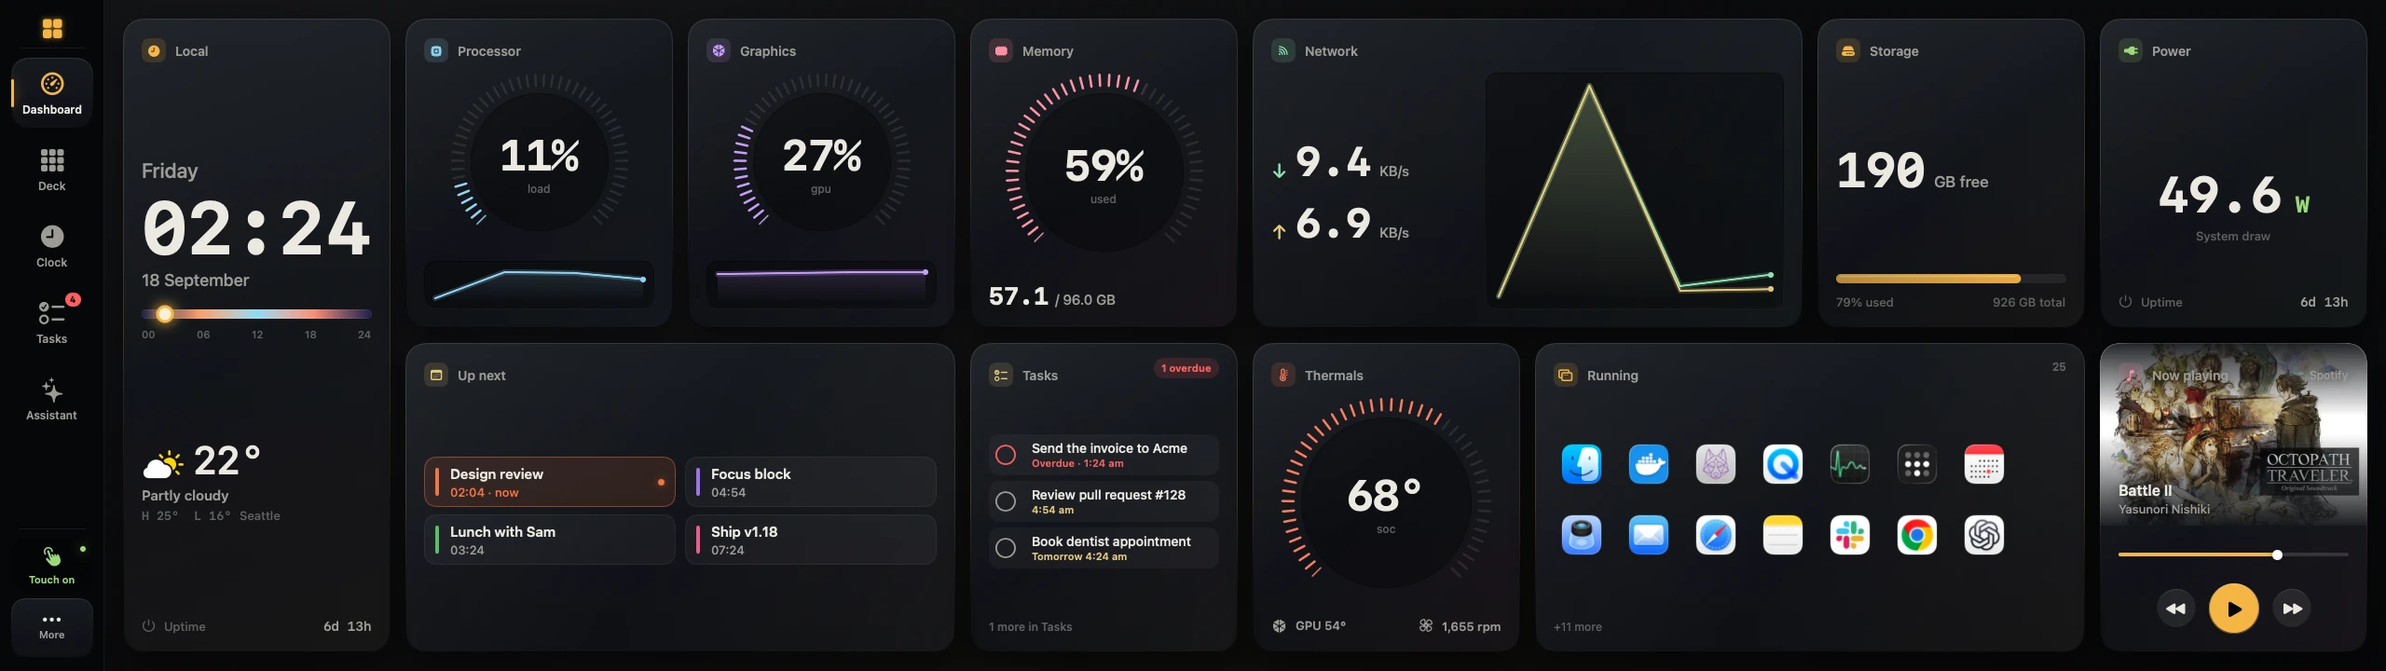
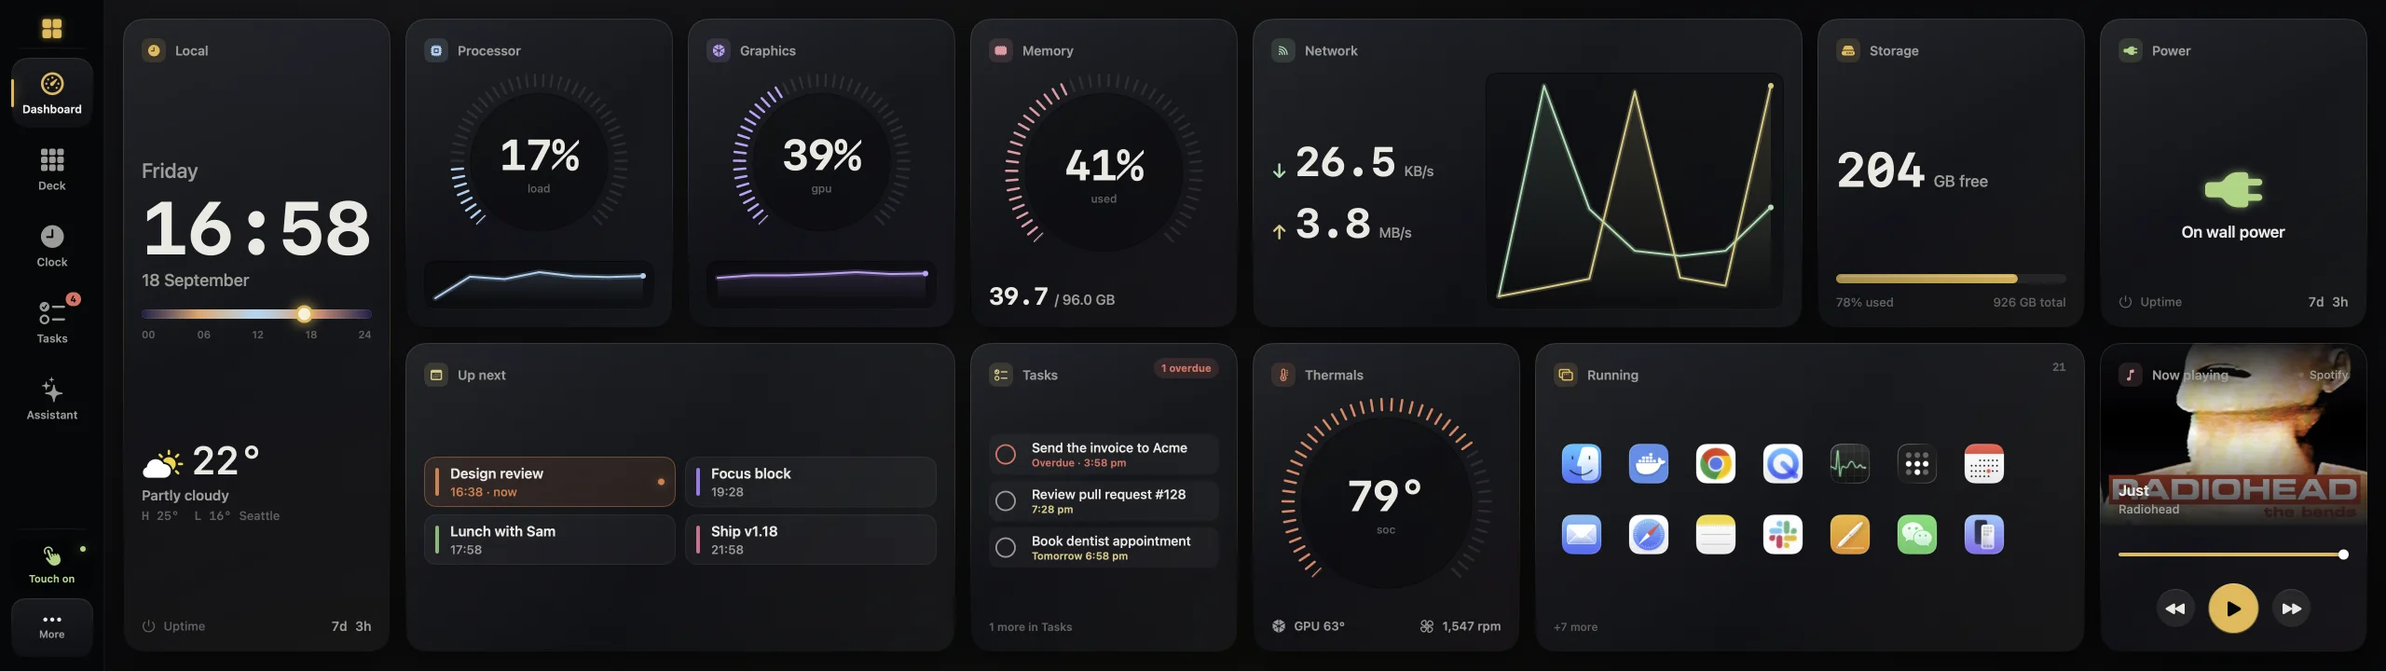
feat(site): taps step the tour so screen and captions stay in sync; two-way adaptive quality with GPU timing, native-resolution tier and a 2x dashboard capture

diff --git a/site/site.js b/site/site.js
@@ -43,7 +43,6 @@ const TILE_RECTS = {
 };
 const FOCUS = ["cpu", "upNext", "running", "nowPlaying", "clock"];
 const STRIP = ["dashboard", "console", "deck", "clock", "assistant", "control-center", "boost"];
-const HERO = ["dashboard", "deck", "clock", "assistant", "control-center"];
 const SCREENS = ["dashboard", "console", "deck", "clock", "assistant", "control-center", "boost", "minimal"];
 
 const screenShader = {
@@ -129,10 +128,17 @@ const tileShader = {
 async function world() {
   const canvas = document.getElementById("world");
   const renderer = new THREE.WebGLRenderer({ canvas, antialias: false, powerPreference: "high-performance" });
-  // Retina canvases are where the time goes: render to a pixel budget, and shrink it if frames run long.
+  // Retina canvases are where the time goes: render to a pixel budget that grows while the GPU has room
+  // and shrinks when frames run long. The level a machine settles on is remembered for the next visit.
   const small = () => innerWidth < 900 || innerHeight < 620;
-  let quality = 1;
-  const pixelRatio = () => clamp(Math.sqrt((small() ? 1.5e6 : 2.5e6) * quality / (innerWidth * innerHeight)), 0.7, Math.min(devicePixelRatio, 2));
+  const remembered = (() => { try { return parseFloat(localStorage.getItem("xt.quality")); } catch { return NaN; } })();
+  let quality = clamp(remembered || 1, 0.4, 8), ceiling = Infinity, samples = small() ? 2 : 4;
+  // Where GPU time can be read, headroom goes into supersampling (Apple GPUs stop at 4× MSAA); never past 9 MP.
+  const gl = renderer.getContext();
+  const timerExt = gl.getExtension("EXT_disjoint_timer_query_webgl2");
+  const ratioCap = () => small() ? Math.min(devicePixelRatio, 2)
+    : Math.min(devicePixelRatio * (timerExt ? 1.4 : 1), 3, Math.sqrt(9e6 / (innerWidth * innerHeight)));
+  const pixelRatio = () => clamp(Math.sqrt((small() ? 1.5e6 : 2.5e6) * quality / (innerWidth * innerHeight)), 0.7, ratioCap());
   renderer.setPixelRatio(pixelRatio());
   renderer.outputColorSpace = THREE.SRGBColorSpace;
   renderer.toneMapping = THREE.ACESFilmicToneMapping;
@@ -144,7 +150,7 @@ async function world() {
   scene.environmentIntensity = 0.45;
   const camera = new THREE.PerspectiveCamera(30, 1, 0.1, 100);
 
-  const target = new THREE.WebGLRenderTarget(2, 2, { type: THREE.HalfFloatType, samples: small() ? 2 : 4 });
+  const target = new THREE.WebGLRenderTarget(2, 2, { type: THREE.HalfFloatType, samples });
   const composer = new EffectComposer(renderer, target);
   composer.addPass(new RenderPass(scene, camera));
   const bloom = new UnrealBloomPass(new THREE.Vector2(2, 2), 0.45, 0.75, 0.9);
@@ -166,12 +172,13 @@ async function world() {
   const tick = () => bootProgress(++loaded / total);
   const texLoader = new THREE.TextureLoader();
   const textures = {};
-  const jobs = SCREENS.map(async (name) => {
-    const t = await texLoader.loadAsync(`assets/screens/${name}.webp`);
+  const loadScreen = async (file) => {
+    const t = await texLoader.loadAsync(`assets/screens/${file}.webp`);
     t.colorSpace = THREE.SRGBColorSpace; t.flipY = false; t.anisotropy = renderer.capabilities.getMaxAnisotropy();
     t.generateMipmaps = true; t.minFilter = THREE.LinearMipmapLinearFilter;
-    textures[name] = t; tick();
-  });
+    return t;
+  };
+  const jobs = SCREENS.map(async (name) => { textures[name] = await loadScreen(name); tick(); });
   const gltfJob = new GLTFLoader().loadAsync("assets/3d/edge.glb").then((g) => { tick(); return g; });
   const [gltf] = await Promise.all([gltfJob, ...jobs]);
 
@@ -328,25 +335,47 @@ async function world() {
     pointer.x = (e.clientX / innerWidth) * 2 - 1; pointer.y = -((e.clientY / innerHeight) * 2 - 1); pointer.lastMove = clock;
   }, { passive: true });
   const ray = new THREE.Raycaster(), ndc = new THREE.Vector2();
-  let rippleAt = 0, heroIdx = 0, lastTouch = -10;
-  canvas.addEventListener("click", (e) => {
+  let rippleAt = 0, lastTouch = -10;
+  const onScreen = (e) => {
     ndc.set((e.clientX / innerWidth) * 2 - 1, -((e.clientY / innerHeight) * 2 - 1));
     ray.setFromCamera(ndc, camera);
     const hit = ray.intersectObject(screenMesh, false)[0];
-    if (!hit || !hit.uv) return;
+    return hit && hit.uv ? hit : null;
+  };
+  // Every stop of the tour as a scroll position. A tap on the glass moves to the next one (the left edge
+  // goes back), so what the screen shows and what the caption says both come from the scroll position.
+  const stops = () => {
+    const at = (name, local) => { const i = names.indexOf(name), m = metrics[i]; return m.top + local * (i === metrics.length - 1 ? m.h - innerHeight * 0.75 : m.h); };
+    return [0,
+      ...STRIP.map((_, k) => at("strip", 0.58 * (k + 0.5) / STRIP.length)),
+      at("apart", 0.4),
+      ...FOCUS.map((_, f) => at("tiles", 0.58 * (0.2 + 0.8 * (f + 0.5) / FOCUS.length))),
+      at("night", 0.36), at("land", 0.7)];
+  };
+  canvas.addEventListener("click", (e) => {
+    const hit = onScreen(e);
+    if (!hit) return;
     screenMat.uniforms.ripples.value[rippleAt++ % 4].set(hit.uv.x, hit.uv.y, clock); lastTouch = clock;
-    if (where().idx === 0) heroIdx = (heroIdx + 1) % HERO.length;
+    const list = stops(), y = scrollY;
+    const to = hit.uv.x < 0.2 ? list.filter((v) => v < y - 8).pop() : list.find((v) => v > y + 8);
+    if (to !== undefined) scrollTo({ top: to, behavior: reduce ? "auto" : "smooth" });
   });
+  let hoverAt = 0;
+  canvas.addEventListener("pointermove", (e) => {
+    if (e.pointerType !== "mouse" || e.timeStamp - hoverAt < 80) return;
+    hoverAt = e.timeStamp; canvas.style.cursor = onScreen(e) ? "pointer" : "";
+  }, { passive: true });
 
   // ----- Screen pages wipe from one to the next
-  let pageNow = "dashboard", pageNext = null, wipe = 0;
+  let pageNow = "dashboard", pageNext = null, wipe = 0, wipeRate = 1;
   const showPage = (name, dt) => {
     if (pageNext) {
-      wipe += dt / 1.25; screenMat.uniforms.mixT.value = clamp(wipe);
+      wipe += dt / 1.25 * wipeRate; screenMat.uniforms.mixT.value = clamp(wipe);
       if (wipe >= 1) { pageNow = pageNext; pageNext = null; screenMat.uniforms.texA.value = textures[pageNow]; screenMat.uniforms.mixT.value = 0; }
     } else if (name !== pageNow) {
       pageNext = name; wipe = 0; screenMat.uniforms.texB.value = textures[name];
     }
+    wipeRate = pageNext && name !== pageNext ? 3.2 : 1;      // the story has moved on: finish this turn quickly
   };
 
   // ----- Frame
@@ -371,17 +400,71 @@ async function world() {
   const ease5 = (x) => { x = clamp(x); return x * x * x * (x * (6 * x - 15) + 10); };
   const tmpV = new THREE.Vector3(), tmpT = new THREE.Vector3(), tmpP = new THREE.Vector3(), lookAt = new THREE.Vector3();
 
+  // ----- Adaptive quality. GPU time per frame where the browser reports it (it shows headroom before a
+  // frame is ever dropped); otherwise late frames. Up: pixels first, then 8× MSAA. Down: the reverse.
+  let query = null, gpuMs = 0, gpuFrames = 0;
+  const timed = (draw) => {
+    if (!timerExt) return draw();
+    if (query) {
+      if (!gl.getQueryParameter(query, gl.QUERY_RESULT_AVAILABLE)) return draw();
+      if (!gl.getParameter(timerExt.GPU_DISJOINT_EXT)) { gpuMs += gl.getQueryParameter(query, gl.QUERY_RESULT) / 1e6; gpuFrames++; }
+      gl.deleteQuery(query); query = null;
+    }
+    query = gl.createQuery(); gl.beginQuery(timerExt.TIME_ELAPSED_EXT, query); draw(); gl.endQuery(timerExt.TIME_ELAPSED_EXT);
+  };
+  const setSamples = (n) => {
+    samples = n;
+    for (const t of [composer.renderTarget1, composer.renderTarget2]) { t.samples = n; t.dispose(); }
+  };
+  // Once the canvas outresolves the 2560-wide captures, the dashboard (the one the tiles are cut from) is
+  // swapped for its 5120-wide capture.
+  let sharp = false;
+  const sharpen = async () => {
+    if (sharp || small() || renderer.getPixelRatio() < 1.7 || renderer.capabilities.maxTextureSize < 5120) return;
+    sharp = true;
+    const t = await loadScreen("dashboard-2x").catch(() => null);
+    if (!t) return;
+    const old = textures.dashboard; textures.dashboard = t;
+    for (const tile of tiles) tile.mat.uniforms.map.value = t;
+    for (const k of ["texA", "texB"]) if (screenMat.uniforms[k].value === old) screenMat.uniforms[k].value = t;
+    old.dispose();
+  };
+  const applyQuality = () => {
+    const pr = pixelRatio();
+    renderer.setPixelRatio(pr); composer.setPixelRatio(pr); sharpen();
+    try { localStorage.setItem("xt.quality", quality.toFixed(2)); } catch {}
+  };
+  const stepDown = () => {
+    ceiling = quality;
+    if (samples > 4) setSamples(4);
+    else if (quality > 0.4) { quality = Math.max(0.4, quality * 0.78); if (quality < 0.6 && samples > 2) setSamples(2); applyQuality(); }
+  };
+  // `share` is the part of the frame budget the GPU used (null when the browser can't say).
+  const stepUp = (share) => {
+    if (pixelRatio() < ratioCap() - 0.01) { if ((share === null || share < 0.45) && quality * 1.3 < ceiling) { quality *= 1.3; applyQuality(); } }
+    else if (samples < 8 && !small() && ceiling === Infinity && renderer.capabilities.maxSamples >= 8) setSamples(8);   // a smaller step than more pixels
+  };
+
   let last = performance.now();
-  let lastRaf = performance.now(), slow = 0, fast = 0, frameNo = 0, lastActive = 0;
+  let judgedLast = null;
+  let lastRaf = performance.now(), late = 0, judged = 0, vsync = 1 / 60, frameNo = 0, lastActive = 0, lastChange = 0;
   function frame(now) {
     requestAnimationFrame(frame);
     if (document.hidden) { last = now; lastRaf = now; return; }
     const raw = (now - lastRaf) / 1000; lastRaf = now;
-    if (raw < 0.2 && clock - lastActive < 0.5) {            // only judge frames while something is moving
-      if (raw > 1 / 45) slow++; else fast++;
-      if (slow + fast >= 50) {
-        if (slow > 20 && quality > 0.4) { quality *= 0.78; resize(); }
-        slow = fast = 0;
+    if (raw < 0.2 && clock - lastActive < 0.5 && clock > 1.5) {   // judge only while something moves, past the first compiles
+      if (raw < vsync * 1.4) vsync = clamp(vsync + (raw - vsync) * 0.06, 1 / 240, 1 / 30);   // the display's own interval, learned from on-time frames
+      if (raw > vsync * 1.6) late++;
+      if (++judged >= 60) {
+        const gpu = gpuFrames > 20 ? gpuMs / gpuFrames / (vsync * 1000) : null;   // share of the frame budget the GPU used
+        judgedLast = { gpu, late, hz: Math.round(1 / vsync) };
+        if (clock - lastChange > 1.5) {
+          // Late frames with an idle GPU are the main thread's doing; fewer pixels only help down to the base level.
+          if ((late > 22 && (gpu === null || gpu > 0.6 || quality > 1)) || (gpu !== null && gpu > 0.85)) { stepDown(); lastChange = clock; }
+          else if (late <= 2 && (gpu === null || gpu < 0.6)) { stepUp(gpu); lastChange = clock; }
+        }
+        late = judged = 0; gpuMs = gpuFrames = 0;
+        sharpen();
       }
     }
     if (clock - lastActive > 1.2 && ++frameNo % 3) return;  // settled: ambient motion only, a third of the frames
@@ -479,6 +562,7 @@ async function world() {
       const bob = reduce ? 0 : Math.sin(clock * 0.7 + t.home.x * 40) * 0.0012 * L;
       t.mesh.position.set(t.pos.x, t.pos.y + bob, t.pos.z); t.mesh.rotation.set(t.rot.x, t.rot.y, 0); t.mesh.scale.setScalar(t.scale);
       t.mat.uniforms.opacity.value = t.opacity; t.mesh.renderOrder = focused ? 5 : 3;
+      t.mat.uniforms.gain.value = damp(t.mat.uniforms.gain.value, focused ? 1.0 : 1.35, 4, dt);   // up close, the bloom would wash the icons out
     }
 
     // Floor and reflection
@@ -493,7 +577,7 @@ async function world() {
     if (!reduce) dust.rotation.y += dt * 0.012;
 
     // Screen content
-    const page = chapter === "hero" ? HERO[heroIdx] : chapter === "strip" ? STRIP[Math.min(STRIP.length - 1, Math.floor(s * STRIP.length))]
+    const page = chapter === "strip" && hold < 0.5 ? STRIP[Math.min(STRIP.length - 1, Math.floor(s * STRIP.length))]
       : chapter === "night" ? (wantNight > 0.25 ? "minimal" : "dashboard") : "dashboard";
     showPage(page, dt);
 
@@ -511,11 +595,14 @@ async function world() {
     }
     railButtons.forEach((bn, i) => { if ((bn.getAttribute("aria-current") === "true") !== (i === idx)) bn.setAttribute("aria-current", String(i === idx)); });
 
-    composer.render(dt);
+    timed(() => composer.render(dt));
   }
 
   // Lets a hidden tab (tests, screenshots) advance the scene by hand: __xt.step(seconds).
-  window.__xt = { step(seconds = 1) { for (let t = 0; t < seconds; t += 1 / 60) update(last + 1000 / 60); } };
+  window.__xt = {
+    step(seconds = 1) { for (let t = 0; t < seconds; t += 1 / 60) update(last + 1000 / 60); },
+    get quality() { return { quality, samples, sharp, pixelRatio: renderer.getPixelRatio(), gpuTimer: !!timerExt, ...judgedLast }; },
+  };
 
   // First frames behind the boot screen, then power on.
   requestAnimationFrame((t0) => { last = t0; frame(t0); });

diff --git a/site/i18n.js b/site/i18n.js
@@ -17,7 +17,7 @@ export const LOCALES = {
     "hero.lede": "Xeneon Toolbox turns Corsair's Xeneon Edge into a touch panel for your Mac: a dashboard, an app launcher and a set of controls, drawn for a 2560 × 720 strip.",
     "hero.cta": "Download for macOS", "hero.source": "View the source",
     "hero.note": "Version {v}. Free and open source. Needs macOS 14 or later.",
-    "hero.hint": "Tap the screen. Scroll to move the camera.",
+    "hero.hint": "Tap the screen to step through, or just scroll.",
     "strip.0.title": "Dashboard", "strip.0.body": "Processor, memory, network, temperatures, weather, your calendar, your tasks and the song that's playing. Eighteen tiles to arrange on a two-row board, readable from across the desk.",
     "strip.1.title": "Consoles", "strip.1.body": "Tap any tile and it opens across the whole strip. Every processor core, what's filling memory, your network and its addresses, the next 24 hours of weather, today on a timeline. Quit a runaway app right from the list.",
     "strip.2.title": "Deck", "strip.2.body": "A launcher you set up with your thumb. Buttons open apps and sites, fire hotkeys, run shell commands or call a webhook, and you can chain several into one tap.",
@@ -59,7 +59,7 @@ export const LOCALES = {
     "hero.lede": "Xeneon Toolbox 把海盗船 Xeneon Edge 变成 Mac 的触控面板：仪表盘、应用启动器和一组快捷控制，专为这条 2560 × 720 的长屏设计。",
     "hero.cta": "下载 macOS 版", "hero.source": "查看源代码",
     "hero.note": "{v} 版，免费开源，需要 macOS 14 或更高版本。",
-    "hero.hint": "点一下屏幕试试。向下滚动，镜头会跟着移动。",
+    "hero.hint": "点一下屏幕，一步步往下看；直接滚动也行。",
     "strip.0.title": "仪表盘", "strip.0.body": "处理器、内存、网络、温度、天气、日程、待办，还有正在播放的歌。十八种小组件随你摆放，上下两行排开，隔着桌子也看得清。",
     "strip.1.title": "详情面板", "strip.1.body": "点一下小组件，它就铺满整条屏幕：每个处理器核心的负载、内存都被谁占了、网络和各个地址、未来 24 小时的天气、排在时间轴上的今日日程。哪个应用失控了，在列表里直接退出。",
     "strip.2.title": "快捷面板", "strip.2.body": "用拇指就能搭好的启动器。按钮可以打开应用和网站、触发快捷键、运行 Shell 命令或调用 Webhook，还能把几个动作串成一次点按。",
@@ -101,7 +101,7 @@ export const LOCALES = {
     "hero.lede": "Xeneon Toolbox 把海盜船 Xeneon Edge 變成 Mac 的觸控面板：儀表板、App 啟動器和一組快速控制，專為這條 2560 × 720 的長螢幕設計。",
     "hero.cta": "下載 macOS 版", "hero.source": "查看原始碼",
     "hero.note": "{v} 版，免費且開放原始碼，需要 macOS 14 或以上版本。",
-    "hero.hint": "點一下螢幕試試。往下捲動，鏡頭會跟著移動。",
+    "hero.hint": "點一下螢幕，一步步往下看；直接捲動也行。",
     "strip.0.title": "儀表板", "strip.0.body": "處理器、記憶體、網路、溫度、天氣、行事曆、待辦事項，還有正在播放的歌。十八種小工具隨你排列，上下兩列，隔著桌子也看得清楚。",
     "strip.1.title": "詳細面板", "strip.1.body": "點一下小工具，它就鋪滿整條螢幕：每個處理器核心的負載、記憶體被誰佔了、網路和各個位址、未來 24 小時的天氣、排在時間軸上的今日行程。哪個 App 失控了，在列表裡直接結束。",
     "strip.2.title": "快捷面板", "strip.2.body": "用拇指就能搭好的啟動器。按鈕可以打開 App 和網站、觸發快速鍵、執行 Shell 指令或呼叫 Webhook，還能把幾個動作串成一次點按。",
@@ -143,7 +143,7 @@ export const LOCALES = {
     "hero.lede": "Xeneon Toolbox は、Corsair の Xeneon Edge を Mac 用のタッチパネルに変えるアプリです。ダッシュボード、アプリランチャー、各種コントロールを、2560 × 720 の横長画面に合わせて作りました。",
     "hero.cta": "macOS 版をダウンロード", "hero.source": "ソースコードを見る",
     "hero.note": "バージョン {v}。無料のオープンソースです。macOS 14 以降が必要です。",
-    "hero.hint": "画面をタップしてみてください。スクロールするとカメラが動きます。",
+    "hero.hint": "画面をタップすると次へ進みます。スクロールでも進めます。",
     "strip.0.title": "ダッシュボード", "strip.0.body": "CPU、メモリ、ネットワーク、温度、天気、予定、タスク、そして再生中の曲。18 種類のタイルを 2 段のボードに自由に並べられ、机の向こうからでも読み取れます。",
     "strip.1.title": "コンソール", "strip.1.body": "タイルをタップすると、画面いっぱいに詳細が開きます。コアごとの負荷、メモリの内訳、ネットワークとアドレス、24 時間先までの天気、タイムラインで見る今日の予定。暴走しているアプリは、その場で終了できます。",
     "strip.2.title": "デッキ", "strip.2.body": "親指ひとつで組めるランチャー。ボタンからアプリやサイトを開いたり、ショートカットキーを送ったり、シェルコマンドや Webhook を実行できます。複数の操作をワンタップにまとめることも。",

diff --git a/site/index.html b/site/index.html
@@ -85,7 +85,7 @@
           <a class="btn ghost" href="https://github.com/Shadowhusky/xeneon-toolbox" rel="noopener" data-i18n="hero.source">View the source</a>
         </div>
         <p class="note" data-r style="--i:4" data-i18n="hero.note">Version 1.18.0. Free and open source. Needs macOS 14 or later.</p>
-        <p class="hint" data-r style="--i:5" data-i18n="hero.hint">Tap the screen. Scroll to move the camera.</p>
+        <p class="hint" data-r style="--i:5" data-i18n="hero.hint">Tap the screen to step through, or just scroll.</p>
       </div>
     </div>
   </section>
@@ -94,7 +94,7 @@
     <div class="stick">
       <div class="cap-stack cap-bottom">
         <div class="cap" data-cap="strip" data-k="0"><span class="mono idx" data-r>1 / 7</span><h2 data-r style="--i:1" data-i18n="strip.0.title">Dashboard</h2><p data-r style="--i:2" data-i18n="strip.0.body">Processor, memory, network, temperatures, weather, your calendar, your tasks and the song that's playing. Eighteen tiles to arrange on a two-row board, readable from across the desk.</p><img class="nogl-shot" src="assets/screens/dashboard.webp" alt="" loading="lazy"></div>
-        <div class="cap" data-cap="strip" data-k="1"><span class="mono idx" data-r>2 / 7</span><h2 data-r style="--i:1" data-i18n="strip.1.title">Consoles</h2><p data-r style="--i:2" data-i18n="strip.1.body">Tap any tile and it opens across the whole strip. Every processor core, what's filling memory, your network and its addresses, the next 24 hours of weather, today on a timeline. Quit a runaway app right from the list.</p></div>
+        <div class="cap" data-cap="strip" data-k="1"><span class="mono idx" data-r>2 / 7</span><h2 data-r style="--i:1" data-i18n="strip.1.title">Consoles</h2><p data-r style="--i:2" data-i18n="strip.1.body">Tap any tile and it opens across the whole strip. Every processor core, what's filling memory, your network and its addresses, the next 24 hours of weather, today on a timeline. Quit a runaway app right from the list.</p><img class="nogl-shot" src="assets/screens/console.webp" alt="" loading="lazy"></div>
         <div class="cap" data-cap="strip" data-k="2"><span class="mono idx" data-r>3 / 7</span><h2 data-r style="--i:1" data-i18n="strip.2.title">Deck</h2><p data-r style="--i:2" data-i18n="strip.2.body">A launcher you set up with your thumb. Buttons open apps and sites, fire hotkeys, run shell commands or call a webhook, and you can chain several into one tap.</p><img class="nogl-shot" src="assets/screens/deck.webp" alt="" loading="lazy"></div>
         <div class="cap" data-cap="strip" data-k="3"><span class="mono idx" data-r>4 / 7</span><h2 data-r style="--i:1" data-i18n="strip.3.title">Clock</h2><p data-r style="--i:2" data-i18n="strip.3.body">World clocks, a focus timer, and a bar that shows how far through the day you are.</p><img class="nogl-shot" src="assets/screens/clock.webp" alt="" loading="lazy"></div>
         <div class="cap" data-cap="strip" data-k="4"><span class="mono idx" data-r>5 / 7</span><h2 data-r style="--i:1" data-i18n="strip.4.title">Assistant</h2><p data-r style="--i:2" data-i18n="strip.4.body">Ask by voice or keyboard. It opens apps, checks on the system, looks things up and sets reminders, and it asks before doing anything risky. Works with any OpenAI-compatible endpoint, including models running on your own Mac.</p><img class="nogl-shot" src="assets/screens/assistant.webp" alt="" loading="lazy"></div>

diff --git a/site/README.md b/site/README.md
@@ -2,7 +2,7 @@
 
 Static site for xeneon.shadowhusky-london.uk (Cloudflare Pages project `xeneon-toolbox`).
 
-- `index.html`, `site.css`, `site.js`: one fixed WebGL scene (three.js + bloom) that the scroll position drives through six chapters: power on, the strip, the exploded touch stack, tiles lifting off the glass, night, install. Captions are plain HTML over it; without WebGL the page falls back to static images. `window.__xt.step(seconds)` advances the scene by hand for screenshots in a hidden tab.
+- `index.html`, `site.css`, `site.js`: one fixed WebGL scene (three.js + bloom) that the scroll position drives through six chapters: power on, the strip, the exploded touch stack, tiles lifting off the glass, night, install. Captions are plain HTML over it; without WebGL the page falls back to static images. `window.__xt.step(seconds)` advances the scene by hand for screenshots in a hidden tab. A tap on the 3D screen scrolls to the next stop of the tour (its left edge goes back), so the screen and the captions are both driven by the scroll position. Quality adapts both ways: the pixel budget grows while the GPU has room (measured with `EXT_disjoint_timer_query_webgl2` where available, late frames otherwise) up to native resolution and light supersampling, shrinks when frames run long, swaps in `dashboard-2x.webp` once the canvas outresolves the captures, and remembers the level in `localStorage` (`xt.quality`). `window.__xt.quality` reports the current tier.
 - `i18n.js`: all page copy in English, 简体中文, 繁體中文 and 日本語. The language follows `?lang=`, then the visitor's last choice, then the browser's language list; CJK fonts load only for the active language.
 - `3d/edge.py`: builds the panel model and renders `assets/3d/*.png` with Blender 5 headless.
 - `assets/audio/theme.mp3`: the optional theme behind the Sound toggle (off by default).
